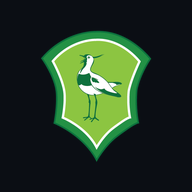
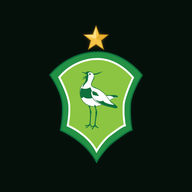
Vallas invictas para todos los jugadores (A, B y total) y estrella dorada en el escudo
Claude-Session: https://claude.ai/code/session_01CHvUxrkboFQC5ofhhetig7

Changed region(s): [[0.2188, 0.125, 0.7812, 0.8438]]

diff --git a/index.html b/index.html
@@ -6307,6 +6307,35 @@ function _collectPlayerTitulos(cTitulosA, cTitulosB) {
 // Memoizado por jugador — se invalida junto con _playerMatchIndex en
 // loadLiveData() (ver _invalidatePlayerMatchIndex).
 let _playerPartidosCache = {};
+// ── Vallas invictas para TODOS los jugadores ──
+// La planilla solo trae vallas de arqueros y defensores. Para el resto se
+// calcula: partidos jugados (histórico precalculado en data/records.json +
+// temporada en curso en memoria) en los que el rival no hizo gol, separado
+// por plantel. Si la planilla ya trae un valor (> 0) se respeta ese.
+function _csbVallasComputed(nombre, team) {
+  const rec = _nidoStaticRecords && _nidoStaticRecords[slugify(nombre)];
+  const hist = rec && rec[team] && typeof rec[team].vi === 'number' ? rec[team].vi : 0;
+  const cat = team === 'b' ? 'Primera B' : 'Primera A';
+  const live = (_buildPlayerLivePartidos(nombre) || []).filter(p => p.categoria === cat && p.gf != null && p.gc != null && _csbGoles(p).riv === 0).length;
+  return hist + live;
+}
+function _csbVallasPatchRows() {
+  if (!_nidoStaticRecords) return false;
+  let changed = false;
+  [[_jugTotalesData, JUG_COL, 'a'], [_jugBData, JUG_COL_B, 'b']].forEach(([rows, C, team]) => {
+    (rows || []).forEach(r => {
+      const nombre = String(r[C.nombre] || '').trim();
+      if (!nombre) return;
+      if (r._vSheet === undefined) r._vSheet = parseInt(r[C.vallas]) || 0;
+      if (r._vSheet > 0) return;
+      const v = _csbVallasComputed(nombre, team);
+      if (String(r[C.vallas]) !== String(v)) { r[C.vallas] = v; changed = true; }
+      if (C.vallasProm !== undefined) { const pj = parseInt(r[C.pj]) || 0; r[C.vallasProm] = pj ? +(v / pj).toFixed(2) : 0; }
+    });
+  });
+  return changed;
+}
+window._csbVallasPatchRows = _csbVallasPatchRows;
 function _invalidatePlayerPartidosCache() { _playerPartidosCache = {}; _playerLivePartidosCache = {}; }
 
 // Historial de Torneos Antiguos (2016-2025, incluida Apertura AIFA D 2024)
@@ -8907,7 +8936,7 @@ function renderPlayerProfile(nombre) {
   // para las que Vallas Invictas importa mostrar en el dashboard superior,
   // separado de Participación en Goles (ver participacionCard).
   const isDefensor = ['LI', 'LD', 'DFI', 'DFD', 'DEF', 'DFC'].includes(s.pos);
-  const showVallasSector = isArquero || isDefensor;
+  const showVallasSector = true; // vallas invictas para todos los jugadores
 
   const metricsTabs = `
     <div class="pp-metric-tabs" id="pp-metric-tabs">
@@ -22234,6 +22263,7 @@ async function loadLiveData() {
   _invalidatePlayerMatchIndex();
   _invalidatePlayerPartidosCache();
   if (window._nidoInvalidateVEDCache) window._nidoInvalidateVEDCache();
+  if (window._csbVallasRefresh) window._csbVallasRefresh();
   // Recién ahora (después de invalidar) hay una carga completa disponible
   // para calcular V-E-D con confianza — ver _matchDataReadyOnce.
   _matchDataReadyOnce = true;
@@ -22886,7 +22916,9 @@ async function loadLiveData() {
     _nidoLoadPromise = Promise.allSettled([
       _ensureJugTotalesA(),
       _ensureJugTotalesB(),
+      _nidoEnsureStaticRecords(),
     ]).then(() => {
+      _csbVallasPatchRows();
       const rowsA = _jugTotalesData || [];
       const rowsB = _jugBData || [];
       _nidoDataA  = rowsA.map(normA).filter(Boolean);
@@ -22947,6 +22979,16 @@ async function loadLiveData() {
   // Llamado desde loadLiveData() al terminar cada carga/refresco — ver el
   // comentario en _nidoVEDCache más arriba.
   window._nidoInvalidateVEDCache = function() { _nidoVEDCache = {}; };
+  // Recalcula las vallas invictas cuando termina de cargar la temporada en
+  // curso y reconstruye las listas de El Nido con los valores nuevos.
+  window._csbVallasRefresh = function () {
+    return _nidoEnsureStaticRecords().then(() => {
+      if (!_csbVallasPatchRows() || _nidoMerged === null) return;
+      _nidoDataA = (_jugTotalesData || []).map(normA).filter(Boolean);
+      _nidoDataB = (_jugBData || []).map(normB).filter(Boolean);
+      _nidoMerged = mergeAB(_nidoDataA, _nidoDataB);
+    });
+  };
 
   // Ver _tryRestoreRouteFromHash (sección "nido") — refleja team/pos/orden
   // en la URL. La búsqueda de texto (_nidoQuery) queda afuera a propósito
@@ -23073,6 +23115,7 @@ function _jxCfg(isA) {
     : { key: 'b', COL: JUG_COL_B, rows: () => _jugBData, ensure: _ensureJugTotalesB, label: 'Primera B' };
 }
 function _jxPlayers(cfg) {
+  try { _csbVallasPatchRows(); } catch (e) {}
   const raw = cfg.rows() || [];
   return raw.map(r => {
     const o = { nombre: r[cfg.COL.nombre], pos: String(r[cfg.COL.pos] || '').toUpperCase().trim() };

diff --git a/redesign/csb-v3.js b/redesign/csb-v3.js
@@ -692,7 +692,7 @@
       o = { pj: p.pj || 0, titular: p.titular || 0, sup: p.suplente != null ? p.suplente : (p.sup || 0), goles: p.goles || 0, asist: p.asist || 0, titulos: p.titulos || 0, vallas: p.vallas || 0, rojas: p.rojas || 0 };
     } else {
       o = { pj: list.length, titular: list.filter(m => m.condCorta === 'Titular').length, sup: list.filter(m => m.condCorta === 'Suplente').length,
-        goles: sum('goles'), asist: sum('asist'), titulos: titlesIn(list), vallas: isGK(p) ? list.filter(rivZero).length : 0, rojas: sum('rojas') };
+        goles: sum('goles'), asist: sum('asist'), titulos: titlesIn(list), vallas: list.filter(rivZero).length, rojas: sum('rojas') };
     }
     o.gmas = o.goles + o.asist;
     o.promGol = o.pj ? o.goles / o.pj : 0; o.promAsist = o.pj ? o.asist / o.pj : 0; o.promGmas = o.pj ? o.gmas / o.pj : 0;
@@ -705,7 +705,7 @@
     { key: 'pj', label: 'Partidos' }, { key: 'titular', label: 'Titular' }, { key: 'sup', label: 'Suplente', neutral: true },
     { key: 'goles', label: 'Goles' }, { key: 'asist', label: 'Asistencias' }, { key: 'gmas', label: 'G + A' },
     { key: 'promGol', label: 'Prom. gol', f: 2 }, { key: 'promAsist', label: 'Prom. asist.', f: 2 }, { key: 'promGmas', label: 'Prom. G+A', f: 2 },
-    { key: 'titulos', label: 'Títulos' }, { key: 'vallas', label: 'Vallas inv.', gk: true }, { key: 'capitan', label: 'Capitán' },
+    { key: 'titulos', label: 'Títulos' }, { key: 'vallas', label: 'Vallas inv.' }, { key: 'capitan', label: 'Capitán' },
     { sep: 'Resultados del equipo con él en cancha' },
     { key: 'w', label: 'Ganados' }, { key: 'd', label: 'Empatados', neutral: true }, { key: 'l', label: 'Perdidos', low: true },
     { key: 'efec', label: 'Efectividad', suf: '%' }, { key: 'rojas', label: 'Rojas', low: true },

diff --git a/scripts/generate-og.js b/scripts/generate-og.js
@@ -439,10 +439,15 @@ async function main() {
         partidos: historicoPartidos,
         generatedAt,
       }));
+      // Vallas invictas (partidos jugados en los que el rival no hizo gol)
+      // del histórico cerrado, para TODOS los jugadores (no solo arqueros y
+      // defensores) — el navegador le suma la temporada en curso y lo usa
+      // cuando la planilla no trae el dato (ver _csbVallasPatchRows).
+      const viOf = list => list.filter(p => p.gf != null && p.gc != null && window._csbGoles(p).riv === 0).length;
       recordsIndex[slug] = {
-        v: vedHistorico.v, e: vedHistorico.e, d: vedHistorico.d, pj: s.pj,
-        a: { v: vedHistoricoA.v, e: vedHistoricoA.e, d: vedHistoricoA.d },
-        b: { v: vedHistoricoB.v, e: vedHistoricoB.e, d: vedHistoricoB.d },
+        v: vedHistorico.v, e: vedHistorico.e, d: vedHistorico.d, pj: s.pj, vi: viOf(historicoPartidos),
+        a: { v: vedHistoricoA.v, e: vedHistoricoA.e, d: vedHistoricoA.d, vi: viOf(historicoPartidos.filter(p => p.categoria === 'Primera A')) },
+        b: { v: vedHistoricoB.v, e: vedHistoricoB.e, d: vedHistoricoB.d, vi: viOf(historicoPartidos.filter(p => p.categoria === 'Primera B')) },
       };
 
       ok++;
